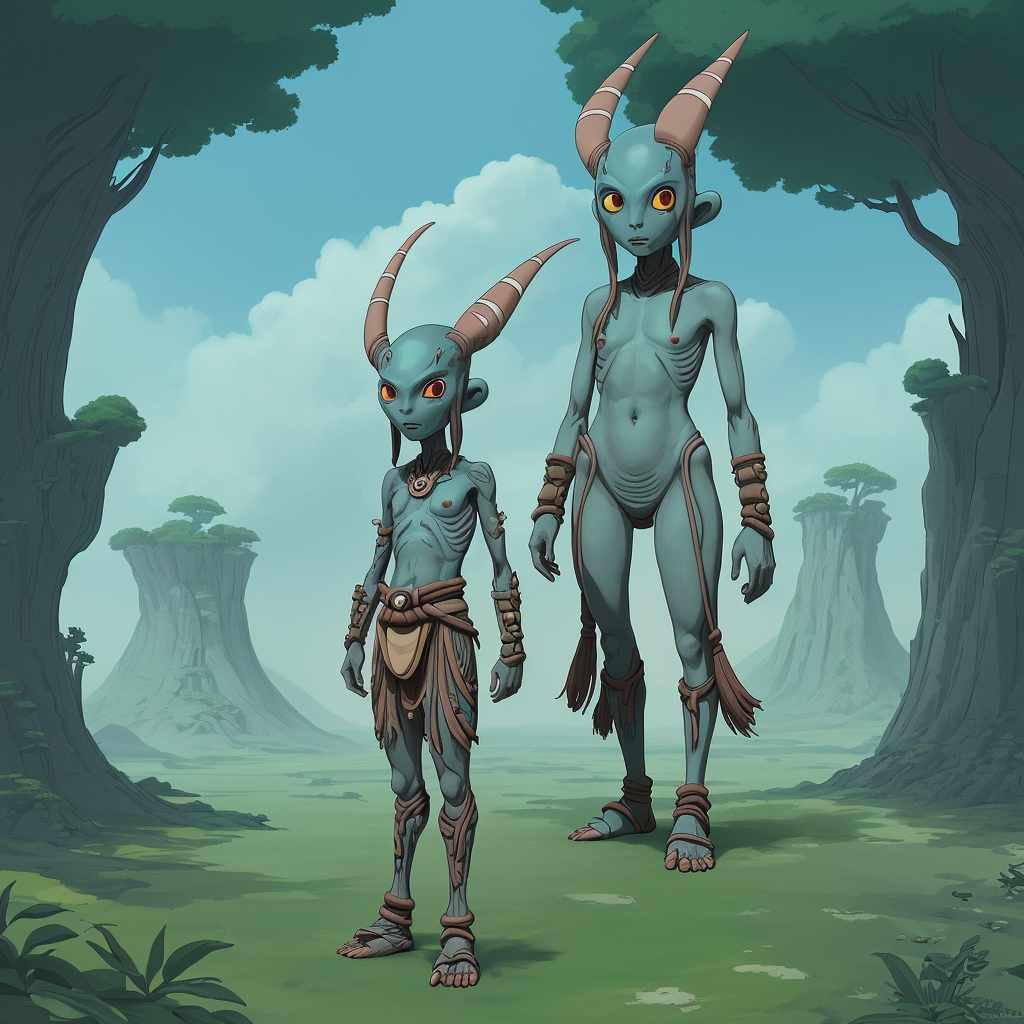
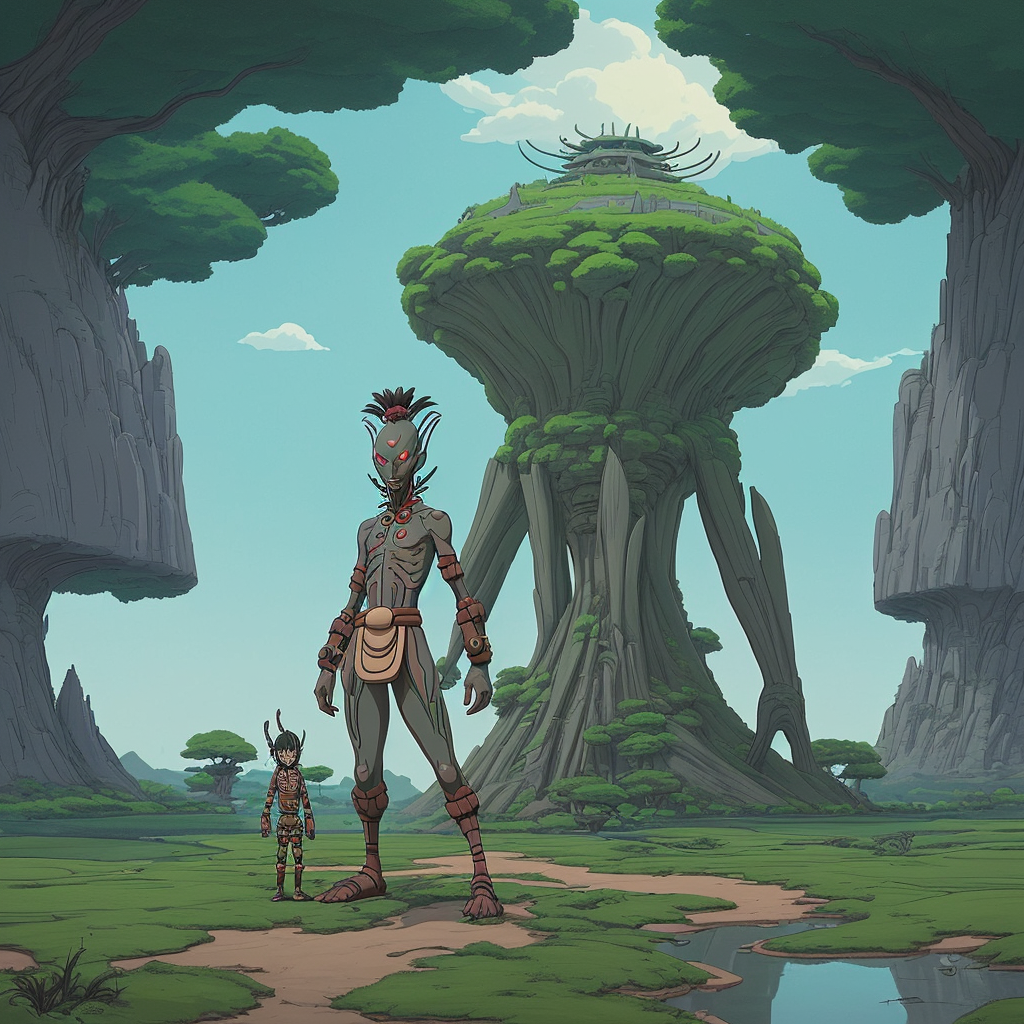
Added image 8bb6aa2cbe1c3d597941d856aee9aa98 to Caneta-Silva/weeb

diff --git a/images/8bb6aa2cbe1c3d597941d856aee9aa98/8bb6aa2cbe1c3d597941d856aee9aa98.md b/images/8bb6aa2cbe1c3d597941d856aee9aa98/8bb6aa2cbe1c3d597941d856aee9aa98.md
@@ -9,28 +9,28 @@
 | Field          | Value                                                                                                                     |
 |----------------|---------------------------------------------------------------------------------------------------------------------------|
 | **Image ID**             | 8bb6aa2cbe1c3d597941d856aee9aa98                                                                                                             |
-| **Title**           | Warrior of the Alien Tribe                                                                                                       |
+| **Title**           | Alien Tribe Warrior - Studio Ghibli Style                                                                                                       |
 | **Description**           | Create a landscape full body image of a alien tribe warrior in the style of Studio Ghibli                                                                                                       |
-| **CreatedAt**        | 2024-12-16 20:06:09.820186                                                                                                        |
+| **CreatedAt**        | 2024-12-16 20:10:29.951131                                                                                                        |
 | **Model**        | dreamshaper                                                                                                        |
-| **OpenAI**         | [OpenAI Image URL](http://192.168.1.85:8081/generated-images/b642142716484.png)                                                                                |
+| **OpenAI**         | [OpenAI Image URL](http://192.168.1.85:8081/generated-images/b641943915459.png)                                                                                |
 | **GitHub**         | [GitHub Image URL](https://raw.githubusercontent.com/Caneta-Silva/weeb/refs/heads/main/images/8bb6aa2cbe1c3d597941d856aee9aa98/8bb6aa2cbe1c3d597941d856aee9aa98.jpg)                                                                                |
 | **Tags**       | None                                                                                                                   |
 
-### 📜 a7028f74e5295816d4aec0717332342a
+### 📜 d5e08e33ac6435340ddeb54b9972d8eb
 
 > Create a landscape full body image of a alien tribe warrior in the style of Studio Ghibli
 
 | Field          | Value                                                                                                                                                                      |
 |----------------|----------------------------------------------------------------------------------------------------------------------------------------------------------------------------|
-| **Prompt ID**  | a7028f74e5295816d4aec0717332342a                                                                                                                                                            |
+| **Prompt ID**  | d5e08e33ac6435340ddeb54b9972d8eb                                                                                                                                                            |
 | **Prompt History** | <ul><li>**Input:**  <br> **Output:**  <br> **Type:** </li></ul> |
 | **Created At** |                                                                                                                                                    |
 | **Revised At** | None                                                                                                                                                   |
 | **Revised Prompt** | No                                                                                                                                                                      |
 | **Enhanced At** | None                                                                                                                                                  |
 | **Enhanced Prompt** | No                                                                                                                                                                    |
-| **Metadata**   | <ul><li>**Element:** tribe warrior <br> **Style:** Studio Ghibli <br> **Aspect Ratio:** landscape <br> **Backdrop:** Martial landscape <br> **Animal:** gnu <br> **Modifiers:**<ul><li>**Image:** full body</li><li>**Element:** alien</li><li>**Backdrop:** alien</li></ul></li></ul> |
+| **Metadata**   | <ul><li>**Element:** tribe warrior <br> **Style:** Studio Ghibli <br> **Aspect Ratio:** landscape <br> **Backdrop:** fortress <br> **Animal:** rhino <br> **Modifiers:**<ul><li>**Image:** full body</li><li>**Element:** alien</li><li>**Backdrop:** futuristic</li></ul></li></ul> |
 | **Template**   | Create a {{ aspect_ratio }} {{ modifiers.image }} image of a {{ modifiers.element }} {{ element }} in the style of {{ style }}                                                                                                                                           |
 
 
